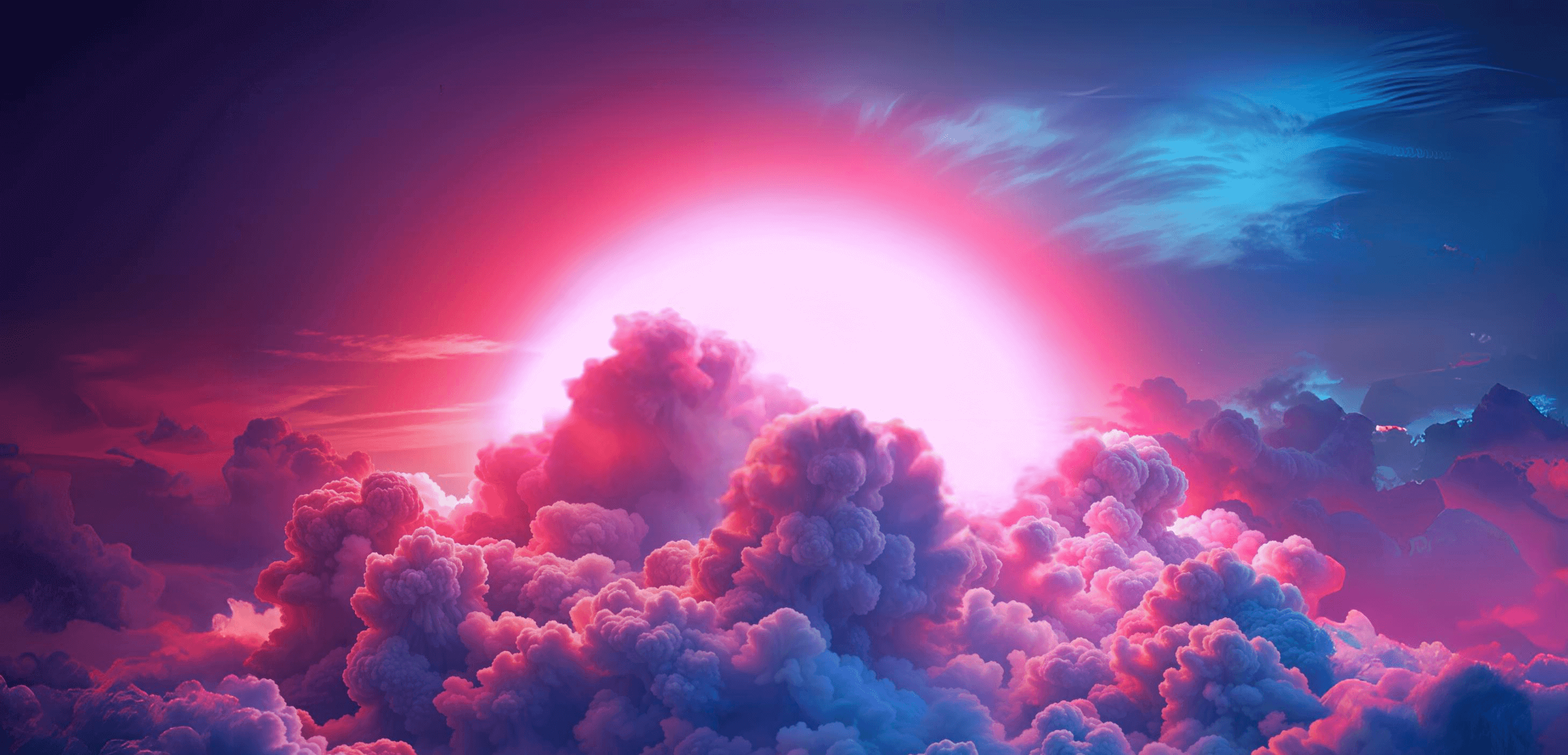
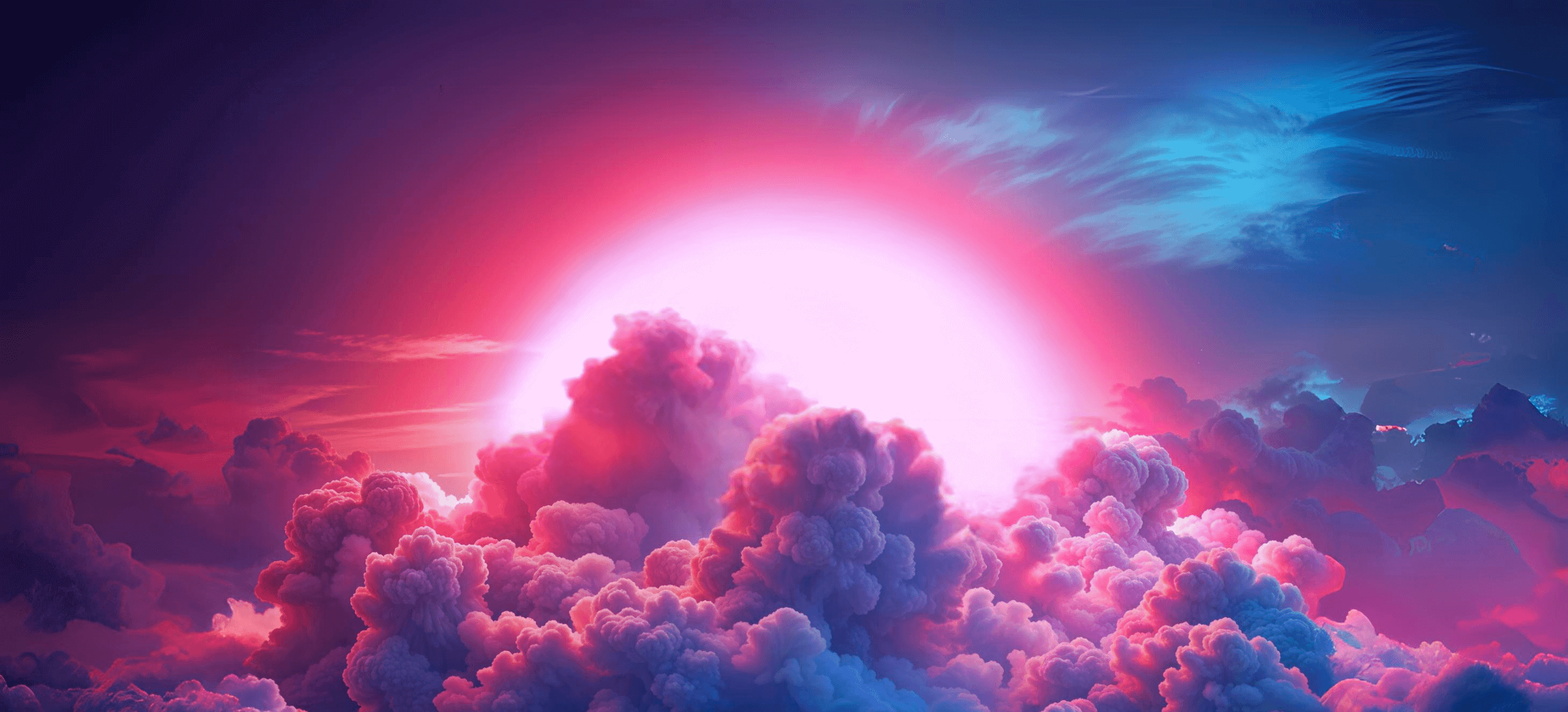
Added Carousel description, smaller image

diff --git a/assets/css/main.css b/assets/css/main.css
@@ -1338,6 +1338,19 @@ textarea.error {
 .style2 {
   position: relative;
 }
+.text-h1 {
+  font-size: 7.5rem;
+}
+@media screen and (max-width: 980px) {
+  .text-h1 {
+    font-size: 5rem;
+  }
+}
+@media screen and (max-width: 580px) {
+  .text-h1 {
+    font-size: 3rem;
+  }
+}
 .text-h4 {
   background-color: var(--primary-purple);
   width: 30rem;
@@ -1459,7 +1472,7 @@ textarea.error {
   border: 1px solid var(--primary-white);
 }
 .dot-container {
-  z-index: 10;
+  z-index: 10;  
   text-align: center;
 }
 .dot:hover {
@@ -1480,9 +1493,11 @@ textarea.error {
 .text,
 .text-filler {
   font-size: 1rem;
-  padding: 1rem;
+  padding: 1rem 3rem;
   position: absolute;
   bottom: 2rem;
-  width: 100%;
   text-align: center;
+}
+.numbertext {
+  left: 1rem;
 }
